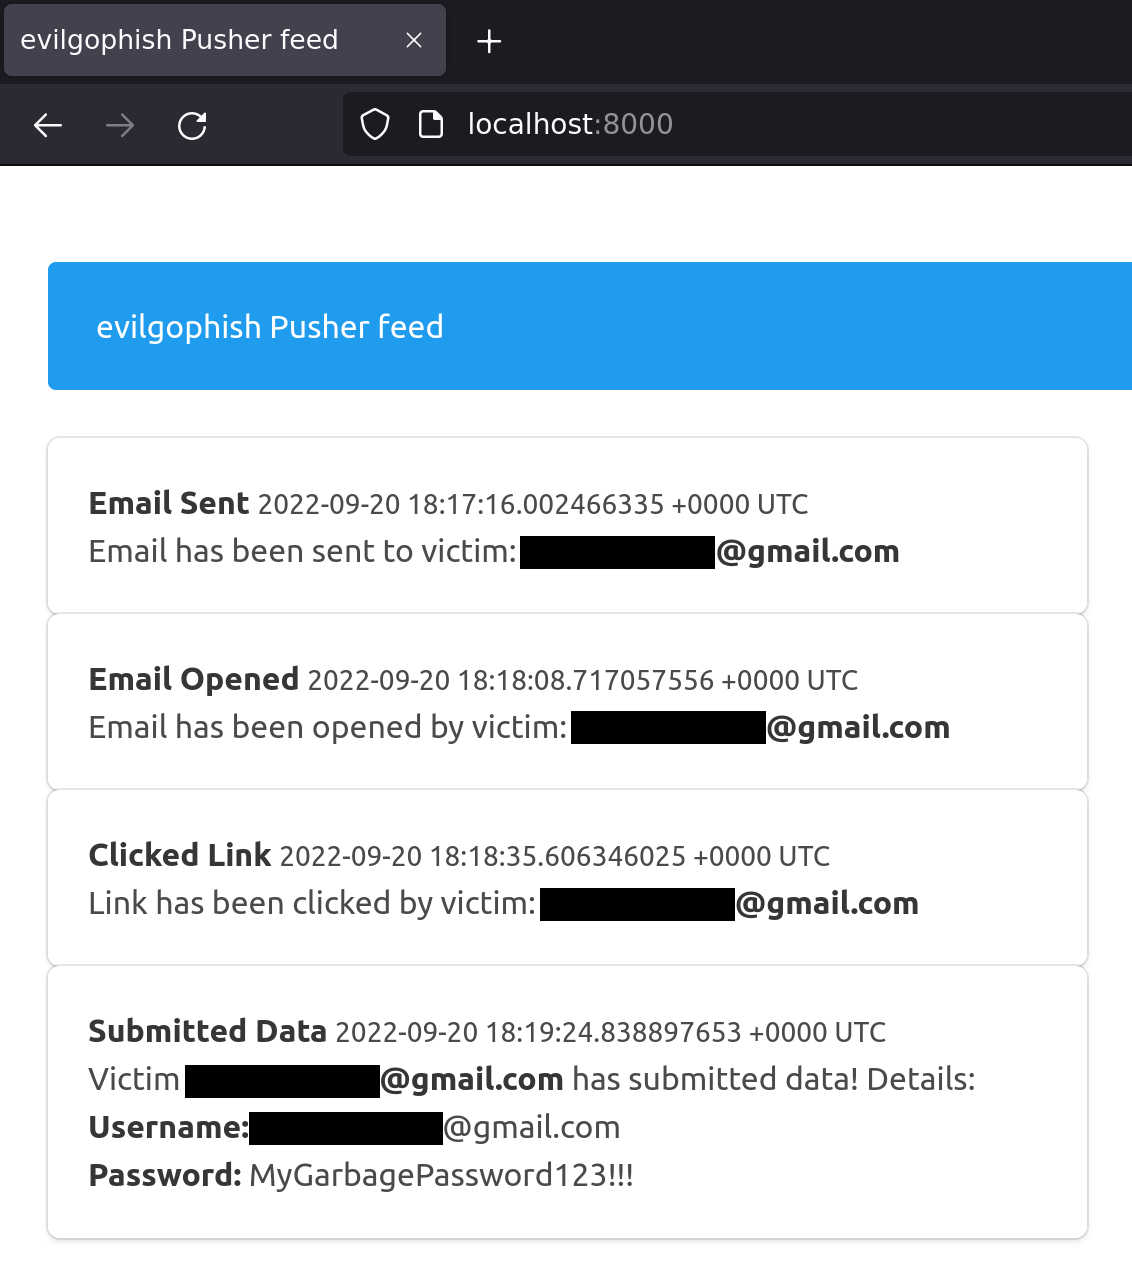
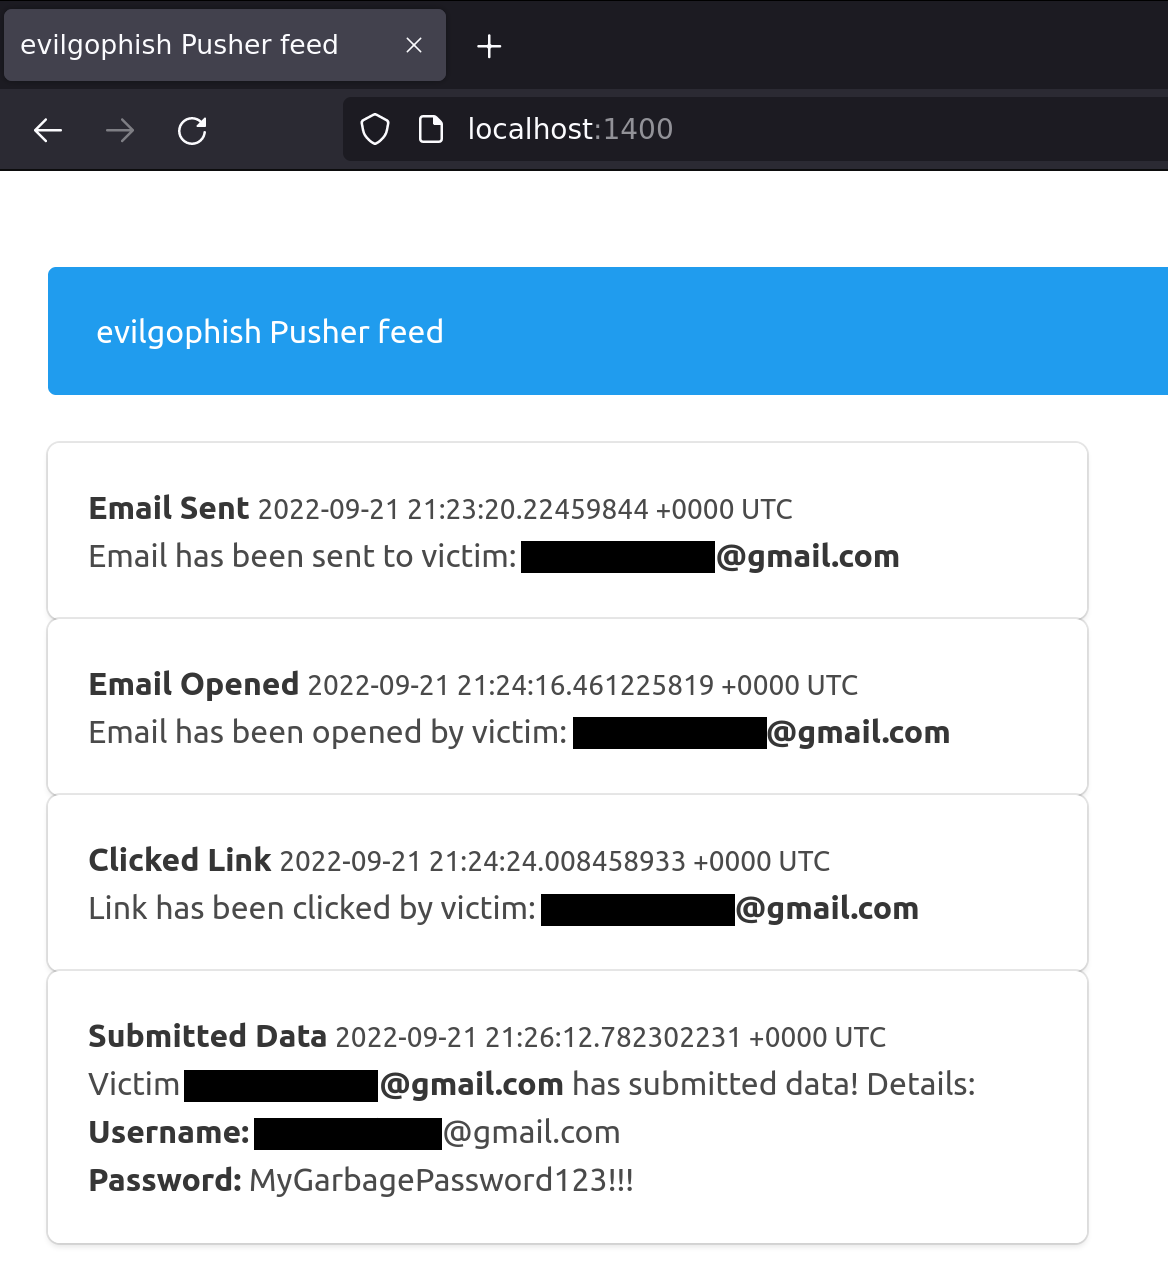
make Pusher server listen on one port

diff --git a/pusher/pusher.go b/pusher/pusher.go
@@ -49,10 +49,6 @@ func main() {
 		},
 	}
 
-	wg := new(sync.WaitGroup)
-	wg.Add(2)
-
-	client_mux := http.NewServeMux()
 	mux := http.NewServeMux()
 
 	f := &feed{
@@ -62,22 +58,11 @@ func main() {
 
 	mux.Handle("/feed", createFeedTitle(client, f))
 	mux.Handle("/pusher/auth", authenticateUsers(client))
-	client_mux.Handle("/", http.FileServer(http.Dir("./client")))
+	mux.Handle("/", http.FileServer(http.Dir("./client")))
 
-	go func() {
-		log.Println("Starting local Pusher Auth HTTP server on port 1400")
-		log.Fatal(http.ListenAndServe("127.0.0.1:1400", mux))
-		wg.Done()
-	}()
-
-	go func() {
-		log.Println("Starting local Pusher Feed HTTP server on port 8000")
-		log.Println("Start viewing the live feed at: http://localhost:8000/")
-		log.Fatal(http.ListenAndServe("127.0.0.1:8000", client_mux))
-		wg.Done()
-	}()
-	
-	wg.Wait()
+	log.Println("Starting local Pusher HTTP server on port 1400")
+	log.Println("Start viewing the live feed at: http://localhost:1400/")
+	log.Fatal(http.ListenAndServe("127.0.0.1:1400", mux))
 }
 
 type feed struct {

diff --git a/README.md b/README.md
@@ -119,14 +119,13 @@ Once you have run `setup.sh`, the next steps are:
 
 ![starting-pusher](images/starting-pusher.png)
 
-4. You can begin viewing the live feed at: `http://localhost:8000/`. The feed dashboard will look like below:
+4. You can begin viewing the live feed at: `http://localhost:1400/`. The feed dashboard will look like below:
 
 ![pusher-dashboard](images/pusher-dashboard.png)
 
 **IMPORTANT NOTES**
 
 - The live feed page hooks the channel for events with `JavaScript` and you **DO NOT** need to refresh the page. If you refresh the page, you will **LOSE** all events up to that point.
-- If you are running the server over SSH, you need to forward both ports 1400 and 8000 locally. Serving the servers locally and using SSH tunnels is intended for further security.
 
 ## Ensuring Email Opened Tracking
 
